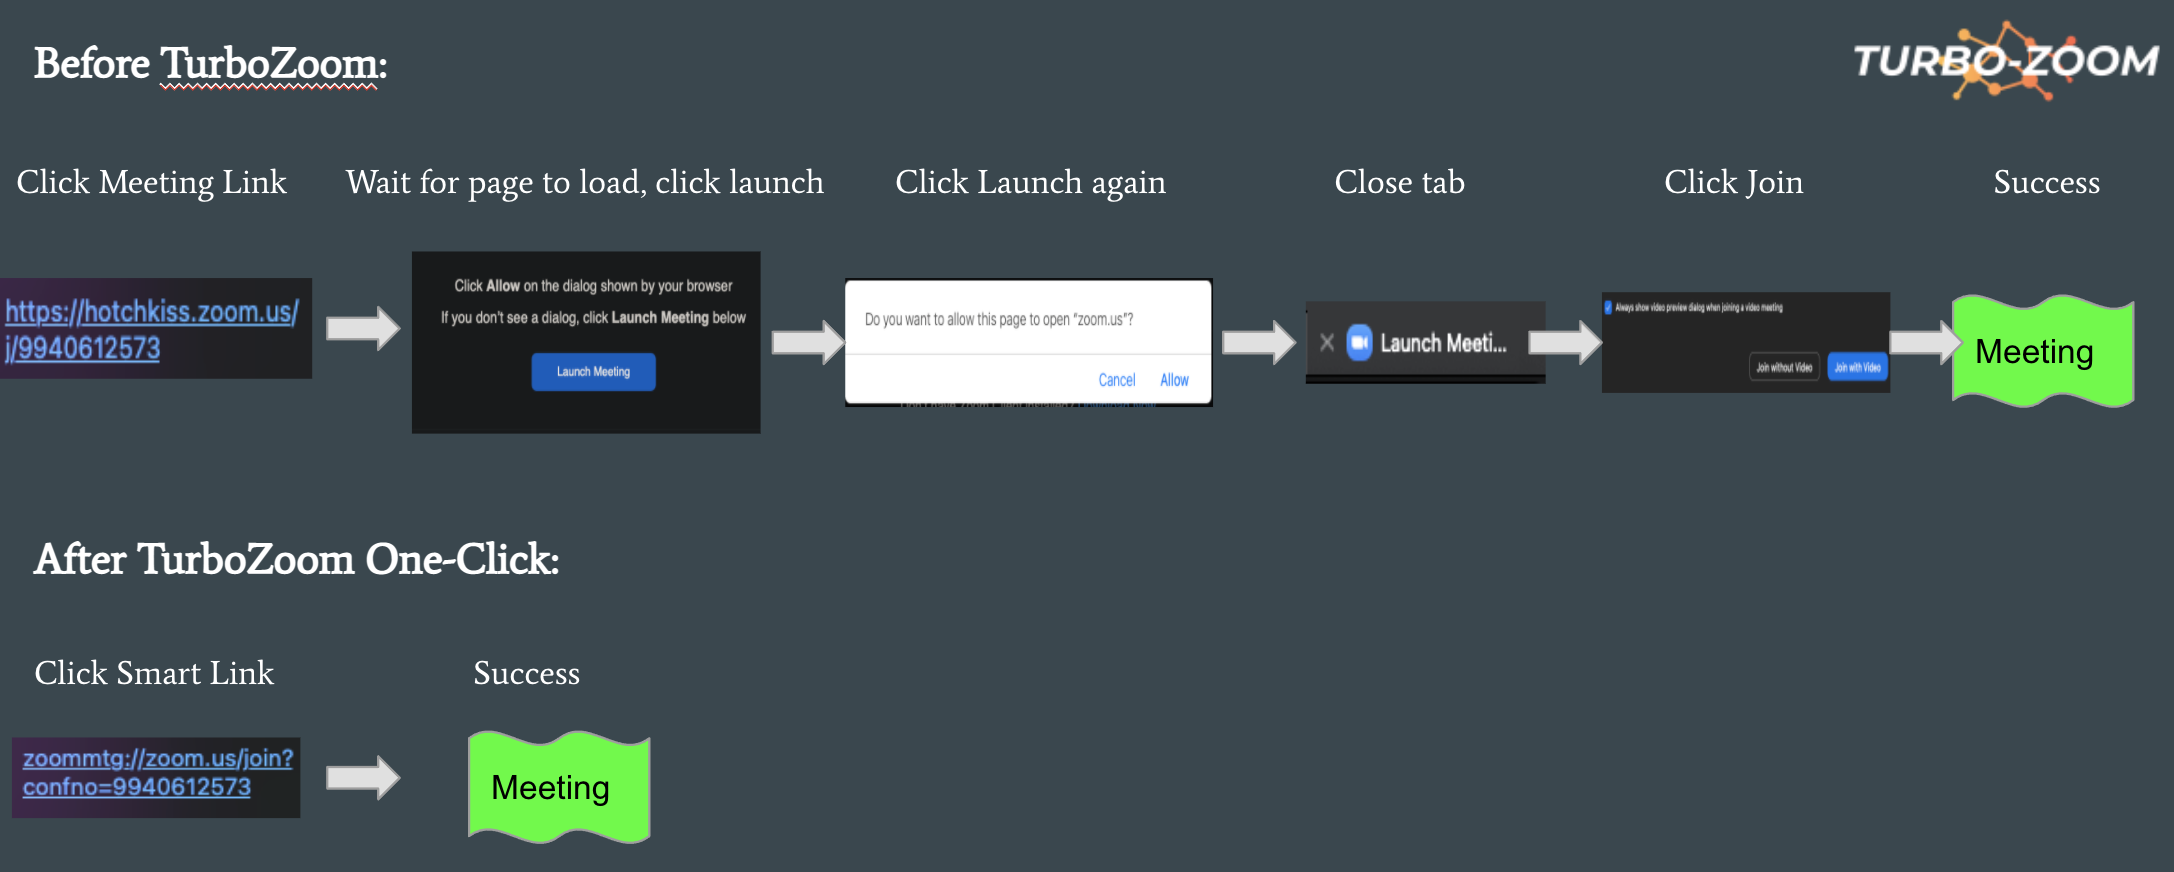
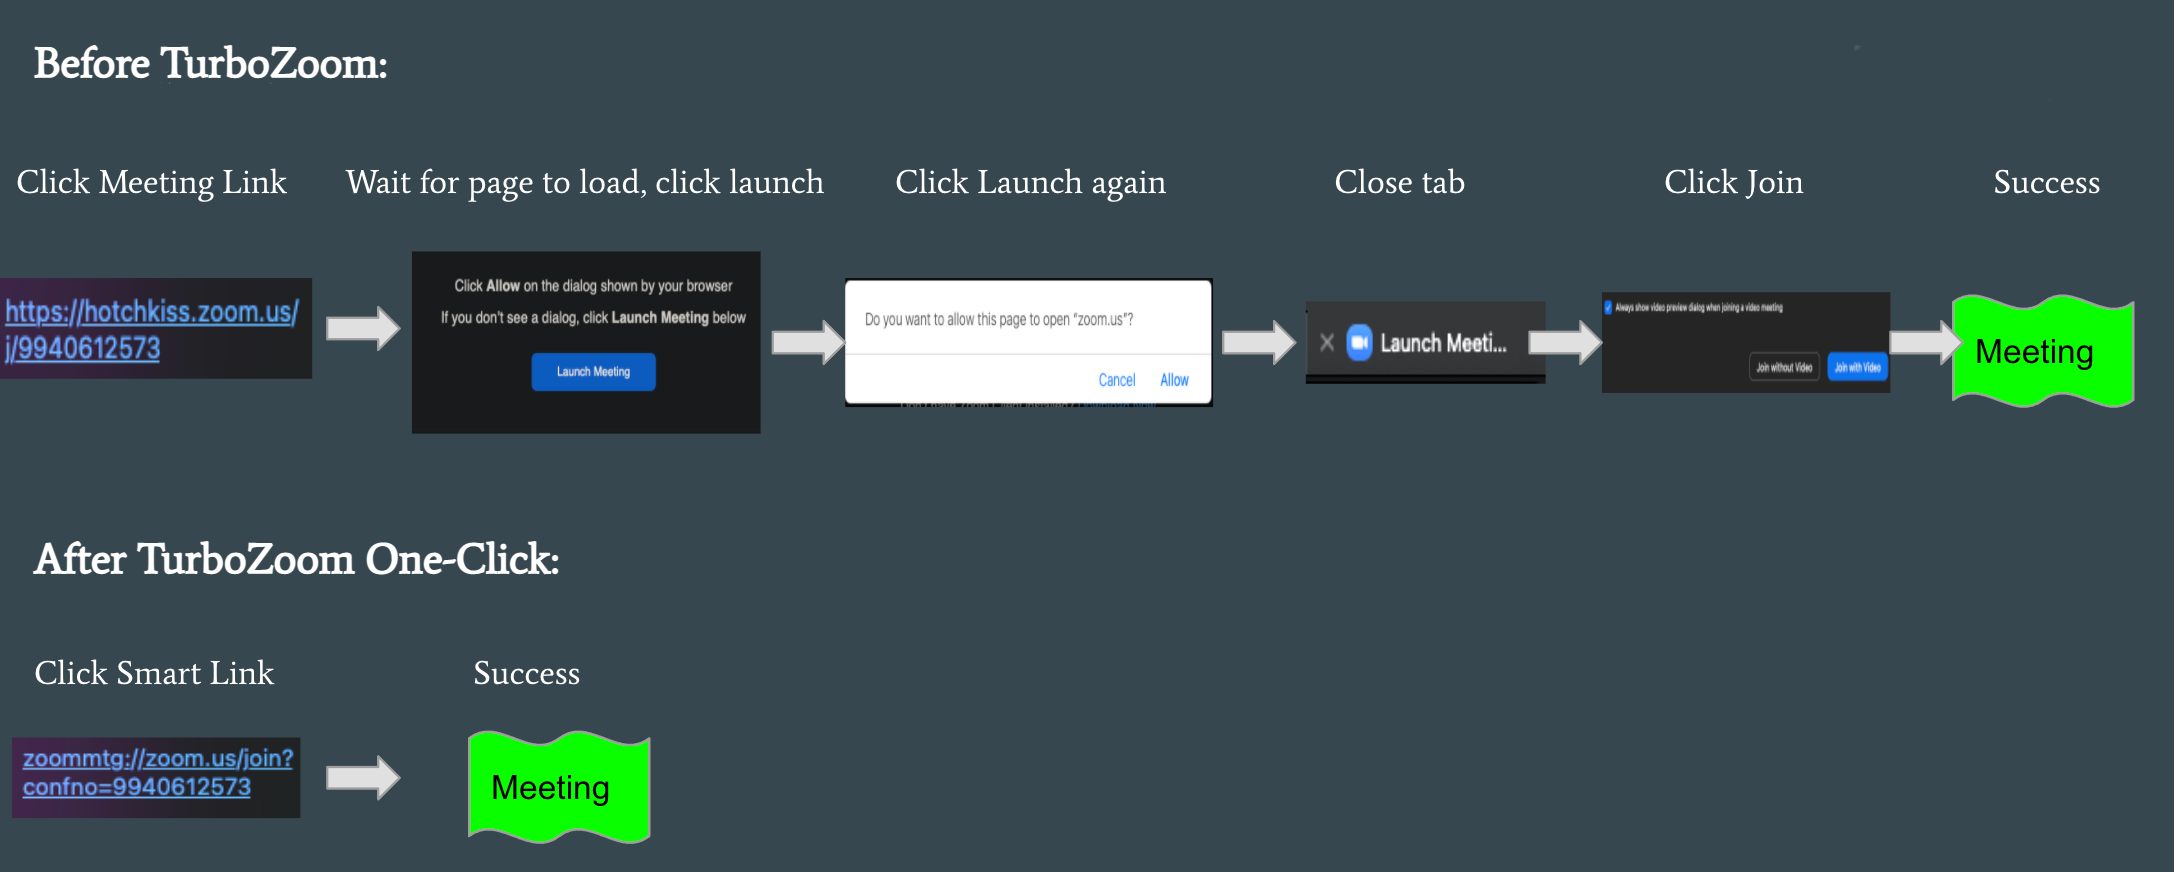
update img

diff --git a/docs/index.md b/docs/index.md
@@ -1,6 +1,6 @@
 # TurboZoom
 ### Created by William Li, Bruce Li, and Rishab Kamalesh
-![TurboZoom logo](logo_200x200.png "TurboZoom logo")
+![TurboZoom logo](Turbo-Zoom-Logo.png "TurboZoom logo")
 
 TurboZoom is a Google Chrome extension that aims to streamline the user's experience with Zoom.
 
